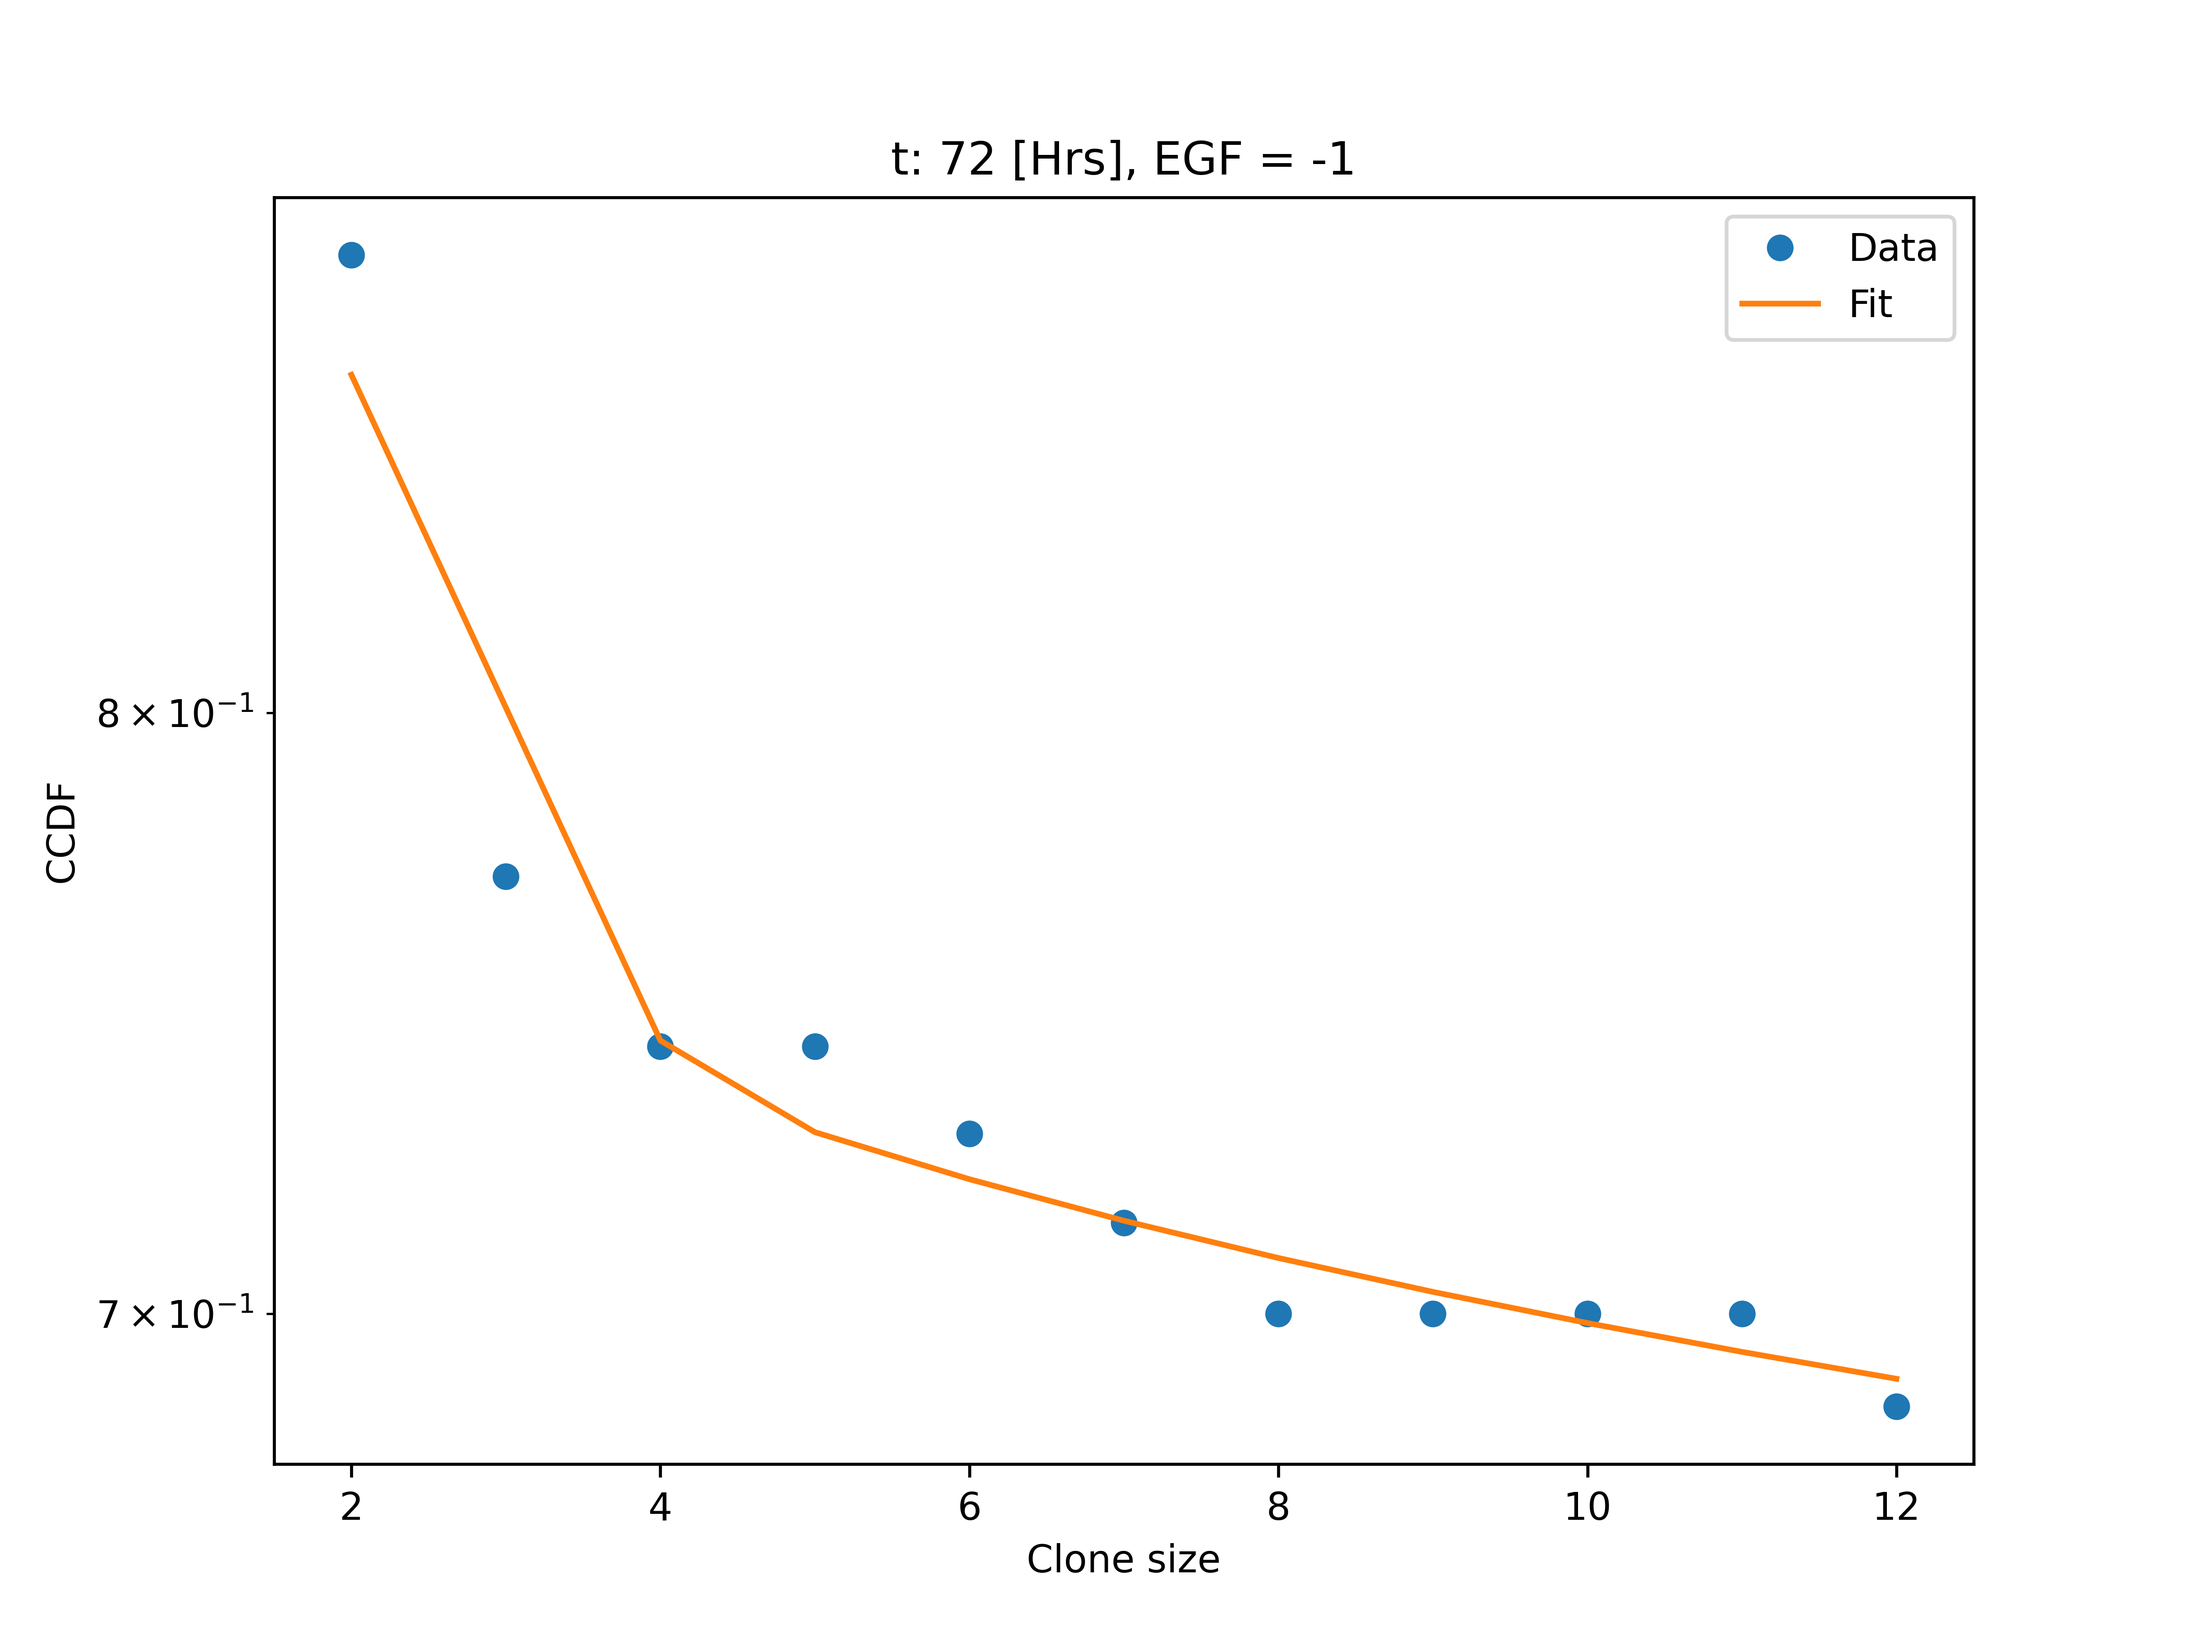
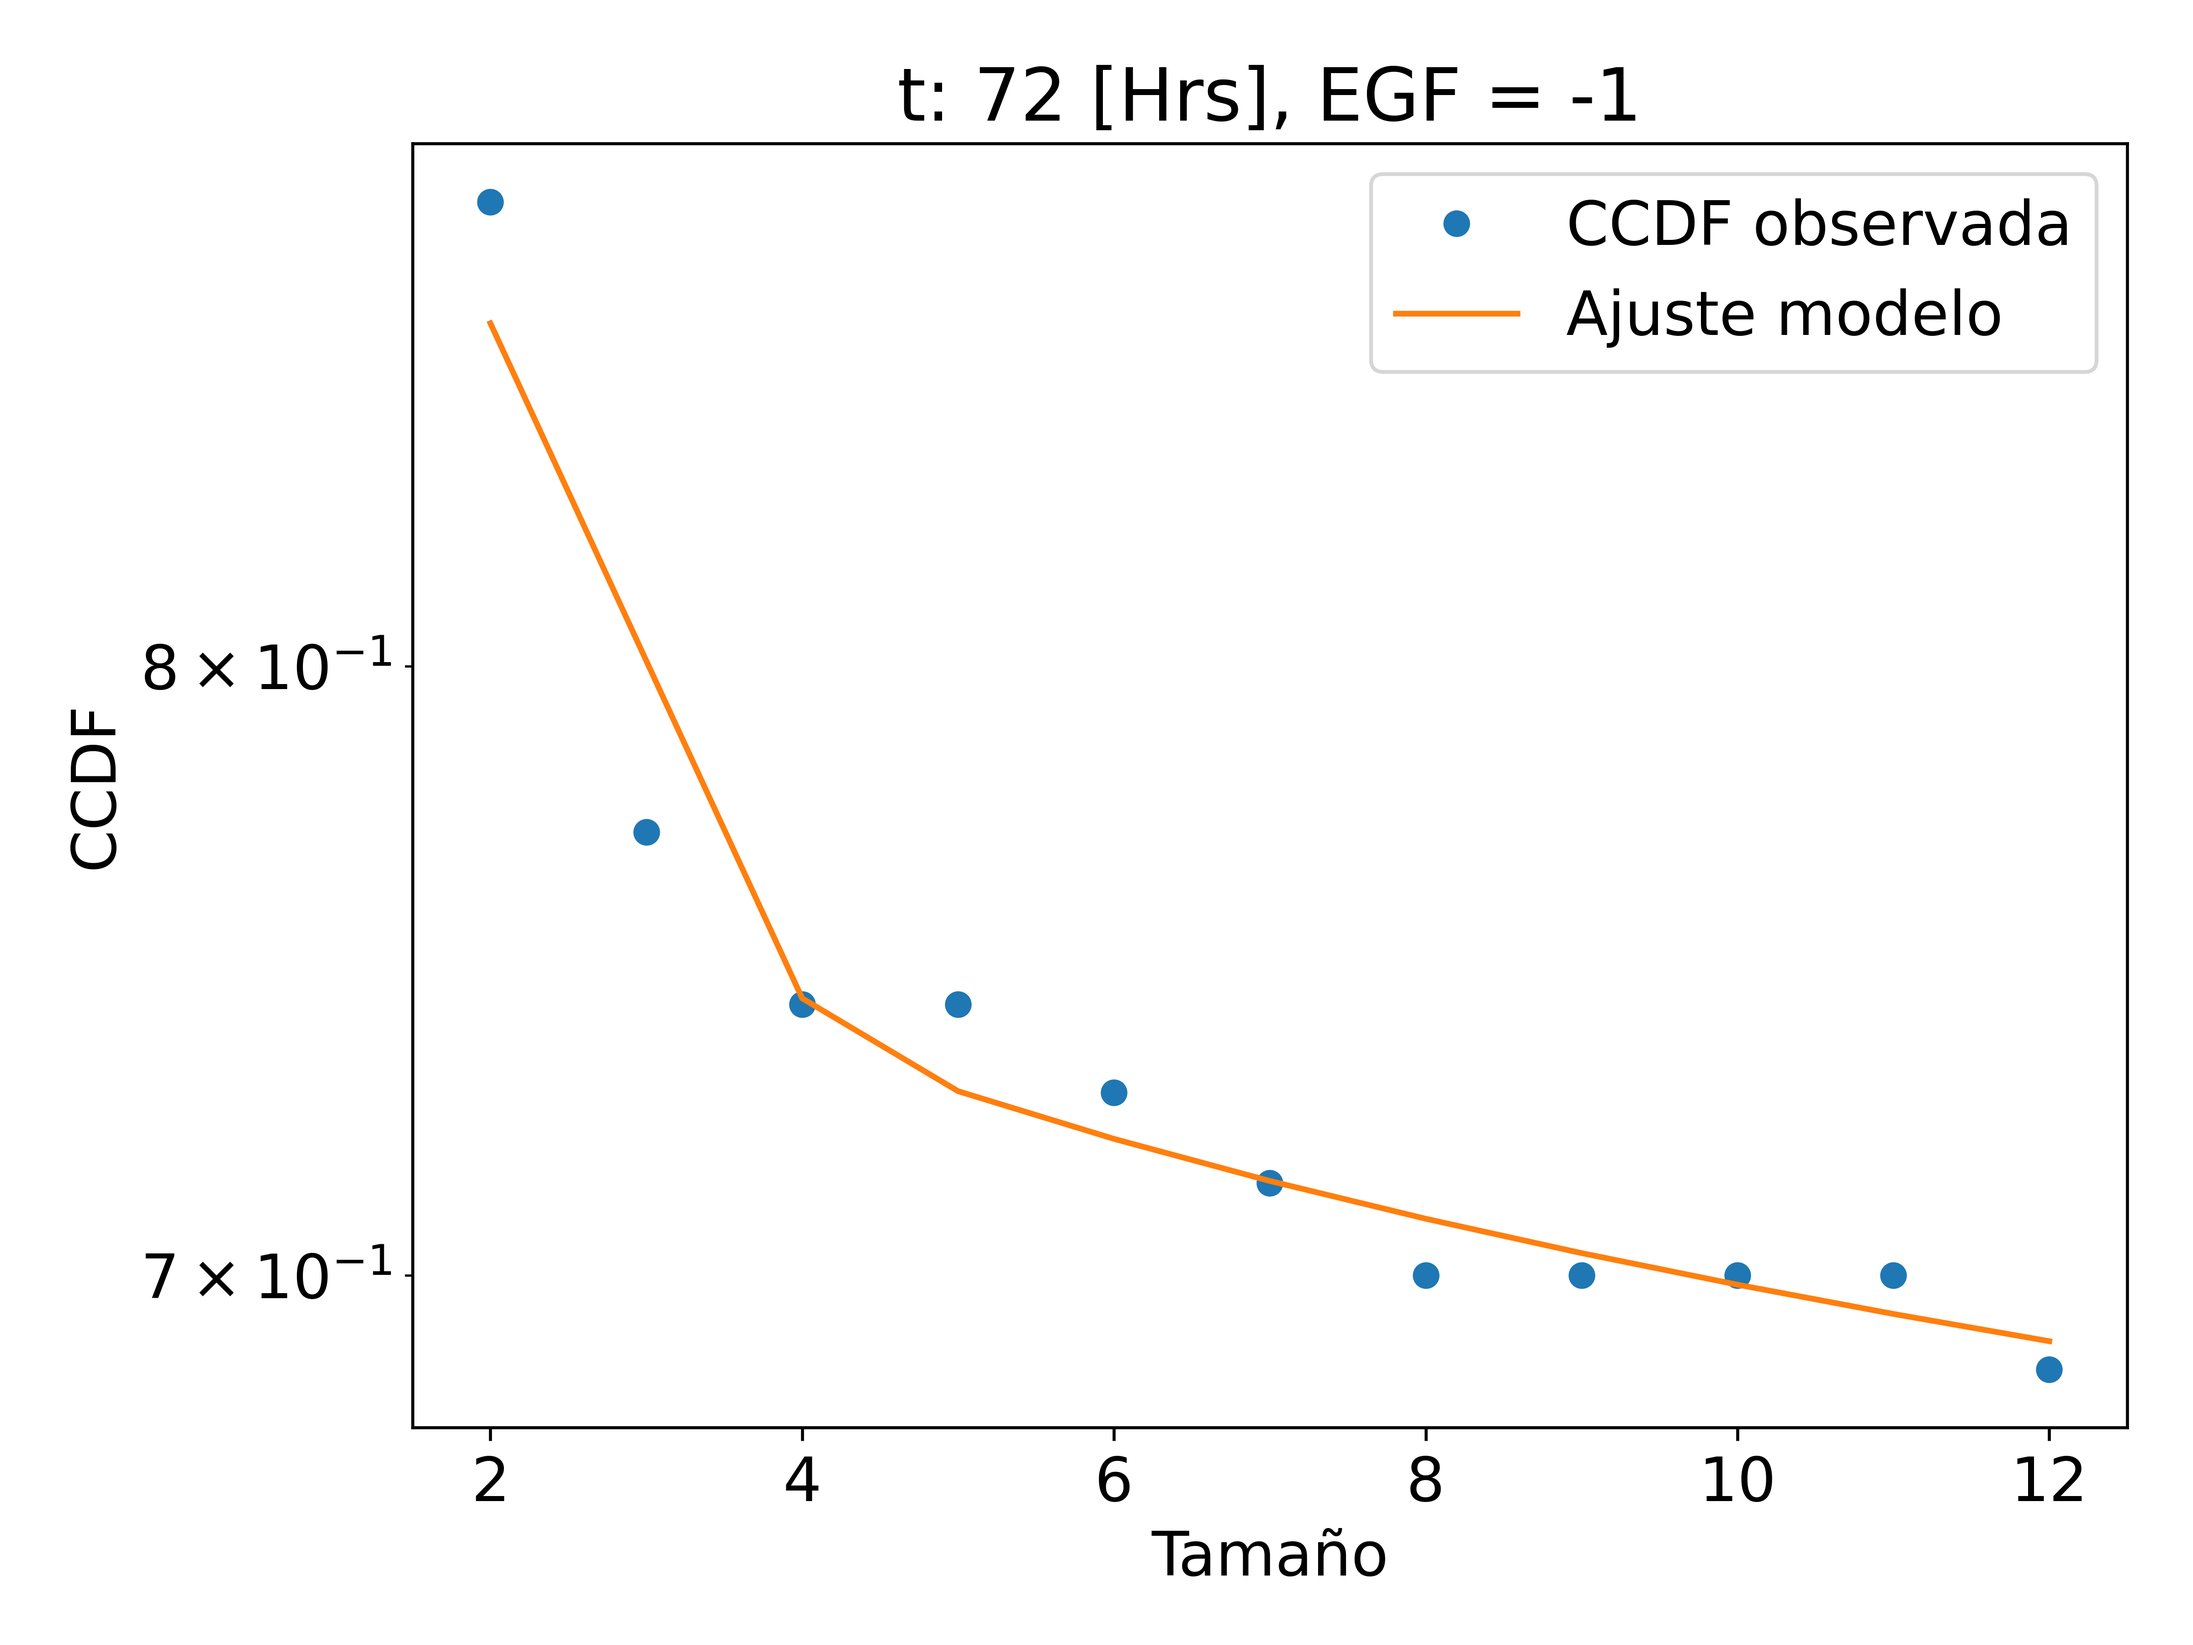
Final Intro a la Inv 1

diff --git a/analysis.py b/analysis.py
@@ -145,25 +145,25 @@ def plot_critsize_params():
     ax2 = fig.add_subplot(132)
     ax3 = fig.add_subplot(133)
 
-    ax1.plot(t, egfnegative[:, 0], 'o-', label="EGF negative")
-    ax2.plot(t, egfnegative[:, 1]*egfnegative[:, 0], 'o-', label=r"EGF negative")
-    ax3.plot(t, egfnegative[:, 2], 'o-', label=r"EGF negative")
+    ax1.plot(t, egfnegative[:, 0], 'o-', label="EGF negativo")
+    ax2.plot(t, egfnegative[:, 1]*egfnegative[:, 0], 'o-', label=r"EGF negativo")
+    ax3.plot(t, egfnegative[:, 2], 'o-', label=r"EGF negativo")
 
-    ax1.plot(t, egfpositive[:, 0], 'o-', label="EGF positive")
-    ax2.plot(t, egfpositive[:, 1]*egfpositive[:, 0], 'o-', label=r"EGF positive")
-    ax3.plot(t, egfpositive[:, 2], 'o-', label=r"EGF positive")
+    ax1.plot(t, egfpositive[:, 0], 'o-', label="EGF positivo")
+    ax2.plot(t, egfpositive[:, 1]*egfpositive[:, 0], 'o-', label=r"EGF positivo")
+    ax3.plot(t, egfpositive[:, 2], 'o-', label=r"EGF positivo")
 
     ax1.legend()
     ax2.legend()
     ax3.legend()
 
-    ax1.set_xlabel("Time [Hrs]")
-    ax2.set_xlabel("Time [Hrs]")
-    ax3.set_xlabel("Time [Hrs]")
+    ax1.set_xlabel("Tiempo [Hrs]")
+    ax2.set_xlabel("Tiempo [Hrs]")
+    ax3.set_xlabel("Tiempo [Hrs]")
 
-    ax1.set_ylabel("Birth rate [1/Hrs]")
-    ax2.set_ylabel(r"$\delta * $ Birth rate [1/Hrs]")
-    ax3.set_ylabel("Critical size")
+    ax1.set_ylabel(r"$\lambda$ [1/Hrs]")
+    ax2.set_ylabel(r"$\delta * \lambda$ [1/Hrs]")
+    ax3.set_ylabel(r"$N_{crit}$")
     fig.tight_layout()
     fig.show()
 
@@ -184,25 +184,25 @@ def plot_biexp_params():
     ax2 = fig.add_subplot(132)
     ax3 = fig.add_subplot(133)
 
-    ax1.plot(t, egfnegative[:, 0], 'o-', label="EGF negative")
-    ax2.plot(t, egfnegative[:, 1], 'o-', label=r"EGF negative")
-    ax3.plot(t, egfnegative[:, 2], 'o-', label=r"EGF negative")
+    ax1.plot(t, egfnegative[:, 0], 'o-', label="EGF negativo")
+    ax2.plot(t, egfnegative[:, 1], 'o-', label="EGF negativo")
+    ax3.plot(t, egfnegative[:, 2], 'o-', label="EGF negativo")
 
-    ax1.plot(t, egfpositive[:, 0], 'o-', label="EGF positive")
-    ax2.plot(t, egfpositive[:, 1], 'o-', label=r"EGF positive")
-    ax3.plot(t, egfpositive[:, 2], 'o-', label=r"EGF positive")
+    ax1.plot(t, egfpositive[:, 0], 'o-', label="EGF positivo")
+    ax2.plot(t, egfpositive[:, 1], 'o-', label="EGF positivo")
+    ax3.plot(t, egfpositive[:, 2], 'o-', label="EGF positivo")
 
     ax1.legend()
     ax2.legend()
     ax3.legend()
 
-    ax1.set_xlabel("Time [Hrs]")
-    ax2.set_xlabel("Time [Hrs]")
-    ax3.set_xlabel("Time [Hrs]")
+    ax1.set_xlabel("Tiempo [Hrs]")
+    ax2.set_xlabel("Tiempo [Hrs]")
+    ax3.set_xlabel("Tiempo [Hrs]")
 
-    ax1.set_ylabel("Population 1 exponential parameter")
-    ax2.set_ylabel("Population 2 exponential parameter")
-    ax3.set_ylabel("Initial population 1 ratio")
+    ax1.set_ylabel(r"$k_1$")
+    ax2.set_ylabel(r"$k_2$")
+    ax3.set_ylabel(r"$f$")
     fig.tight_layout()
     fig.show()
 
@@ -215,5 +215,42 @@ def plot_biexp_params():
 
     
 if __name__ == "__main__":
-    plot_biexp_params()
+    # plot_critsize_params()
+    from scipy.optimize import curve_fit
+
+    def linear_model(x, a, b):
+        return a*x + b
+    
+
+    data = read_excel_data("Data/20220222_idx.xlsm")
+    EGF_negative = ccdf_at_tcode(8, data)
+    EGF_positive = ccdf_at_tcode(7, data)
+
+    # Fit the linear model to the data
+    condition = np.logical_and(50 < EGF_negative[0], EGF_negative[0] < 150)
+    egf_negative_popt_end,_ = curve_fit(linear_model, EGF_negative[0][condition], np.log(EGF_negative[1])[condition])
+    egf_negative_popt_beginning,_ = curve_fit(linear_model, EGF_negative[0][EGF_negative[0] <45], np.log(EGF_negative[1])[EGF_negative[0] <45])
+
+    # Same with EGF 
+    egf_positive_popt_end,_ = curve_fit(linear_model, EGF_positive[0][EGF_positive[0]>50], np.log(EGF_positive[1])[EGF_positive[0]>50])
+    egf_positive_popt_beginning,_ = curve_fit(linear_model, EGF_positive[0][EGF_positive[0] < 15], np.log(EGF_positive[1])[EGF_positive[0] < 15])
+
+
+    fig = plt.figure("Clone size distribution (day 13)", figsize=(8, 6))
+    fig.clf()
+    ax = fig.add_subplot(111)
+    ax.plot(EGF_negative[0], EGF_negative[1], 'o-', label="EGF negativo (día 13)")
+    ax.plot(EGF_positive[0], EGF_positive[1], 'o-', label="EGF positivo (día 13)")
+    ax.plot(EGF_negative[0][EGF_negative[0] > 50], np.exp(linear_model(EGF_negative[0][EGF_negative[0] > 50], *egf_negative_popt_end)), 'r--')
+    ax.plot(EGF_negative[0][EGF_negative[0] < 45], np.exp(linear_model(EGF_negative[0][EGF_negative[0] < 45], *egf_negative_popt_beginning)), 'r--')
+    ax.plot(EGF_positive[0][EGF_positive[0] > 50], np.exp(linear_model(EGF_positive[0][EGF_positive[0] > 50], *egf_positive_popt_end)), 'b--')
+    ax.plot(EGF_positive[0][EGF_positive[0] < 15], np.exp(linear_model(EGF_positive[0][EGF_positive[0] < 15], *egf_positive_popt_beginning)), 'b--')
+    ax.set_yscale("log")
+    ax.set_xlabel("Tamaño")
+    ax.set_ylabel("CCDF")
+    ax.legend()
+    fig.tight_layout()
+    fig.show()
+    if input("Guardar el gráfico? [y/n]: ") == "y":
+        fig.savefig("clone_size_distribution.png", dpi=600)
     plt.close()

diff --git a/crit_size_model.py b/crit_size_model.py
@@ -72,13 +72,14 @@ if __name__ == '__main__':
             fig = plt.figure(figsize=(8, 6))
             fig.clf()
             ax = fig.add_subplot(111)
-            ax.plot(ndata, ccdfdata, 'o', label='Data')
-            ax.plot(ndata, cdn.ccdfunc(ndata, [params[0], params[1], n_crit], t), label='Fit')
+            ax.plot(ndata, ccdfdata, 'o', label='CCDF observada')
+            ax.plot(ndata, cdn.ccdfunc(ndata, [params[0], params[1], n_crit], t), label='Ajuste modelo')
             ax.set_title(f"t: {t} [Hrs], EGF = {-1 + 2*(tcode % 2)}")
             ax.set_yscale('log')
-            ax.set_xlabel('Clone size')
+            ax.set_xlabel('Tamaño')
             ax.set_ylabel('CCDF')
             ax.legend()
+            fig.tight_layout()
             fig.savefig(f"images/critsize model/tcodefit_{tcode}.png", dpi=600)
 
     # End code here

diff --git a/exp_sum_model.py b/exp_sum_model.py
@@ -58,12 +58,13 @@ if __name__ == '__main__':
             fig = plt.figure(figsize=(8, 6))
             fig.clf()
             ax = fig.add_subplot(111)
-            ax.plot(ndata, ccdfdata, 'o', label='Data')
-            ax.plot(ndata, biexponential_ccdf(ndata, params[0], params[1], params[2]), label='Fit')
+            ax.plot(ndata, ccdfdata, 'o', label='CCDF observada')
+            ax.plot(ndata, biexponential_ccdf(ndata, params[0], params[1], params[2]), label='Ajuste modelo')
             ax.set_title(f"t: {t} [Hrs], EGF = {-1 + 2*(tcode % 2)}")
             ax.set_yscale('log')
-            ax.set_xlabel('Clone size')
+            ax.set_xlabel('Tamaño')
             ax.set_ylabel('CCDF')
             ax.legend()
+            fig.tight_layout()
             fig.savefig(f"images/biexp model/tcodefit_{tcode}.png", dpi=600)
 
